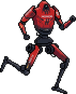
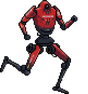
Robot Veloz: segundo cuadro del sprite para alternar las piernas al correr
Claude-Session: https://claude.ai/code/session_01Dqrxwhud4ud3t1w5CCPkef

diff --git a/zorro/zorro.js b/zorro/zorro.js
@@ -1,6 +1,6 @@
 const c = document.getElementById('c'), g = c.getContext('2d');
 const W = c.width, H = c.height, GROUND = 150, FX = 50, FW = 34, FH = 46;
-const foxImg = new Image(); foxImg.src = '../assets/zorro-robot.png';
+const foxImgs = ['../assets/zorro-robot.png', '../assets/zorro-robot2.png'].map(src => { const i = new Image(); i.src = src; return i; });
 let fox, obs, speed, score, best = loadBest('zorro'), over, overAt, started, held = false, nextGap, scroll, t = 0;
 
 function reset() {
@@ -52,9 +52,11 @@ function update() {
 }
 
 function drawFox(x, base) {
-  // robot corredor; en el suelo rebota un poco al correr
-  const bob = fox.y === 0 && started && !over ? Math.abs(Math.sin(t * 0.5)) * -2 : 0;
-  if (foxImg.complete) g.drawImage(foxImg, x - 2, base - FH + bob, 38, 47);
+  // robot corredor: alterna las piernas mientras corre en el suelo; en el aire o parado, una sola pose
+  const running = fox.y === 0 && started && !over;
+  const img = foxImgs[running && Math.floor(t / 6) % 2 ? 1 : 0];
+  const bob = running ? Math.abs(Math.sin(t * 0.52)) * -2 : 0;
+  if (img.complete) g.drawImage(img, x - 2, base - FH + bob, 44, 47);
 }
 
 // Estadio: gradas con público y torres de luz (lentas), vallas publicitarias y pista (a la velocidad del suelo).
